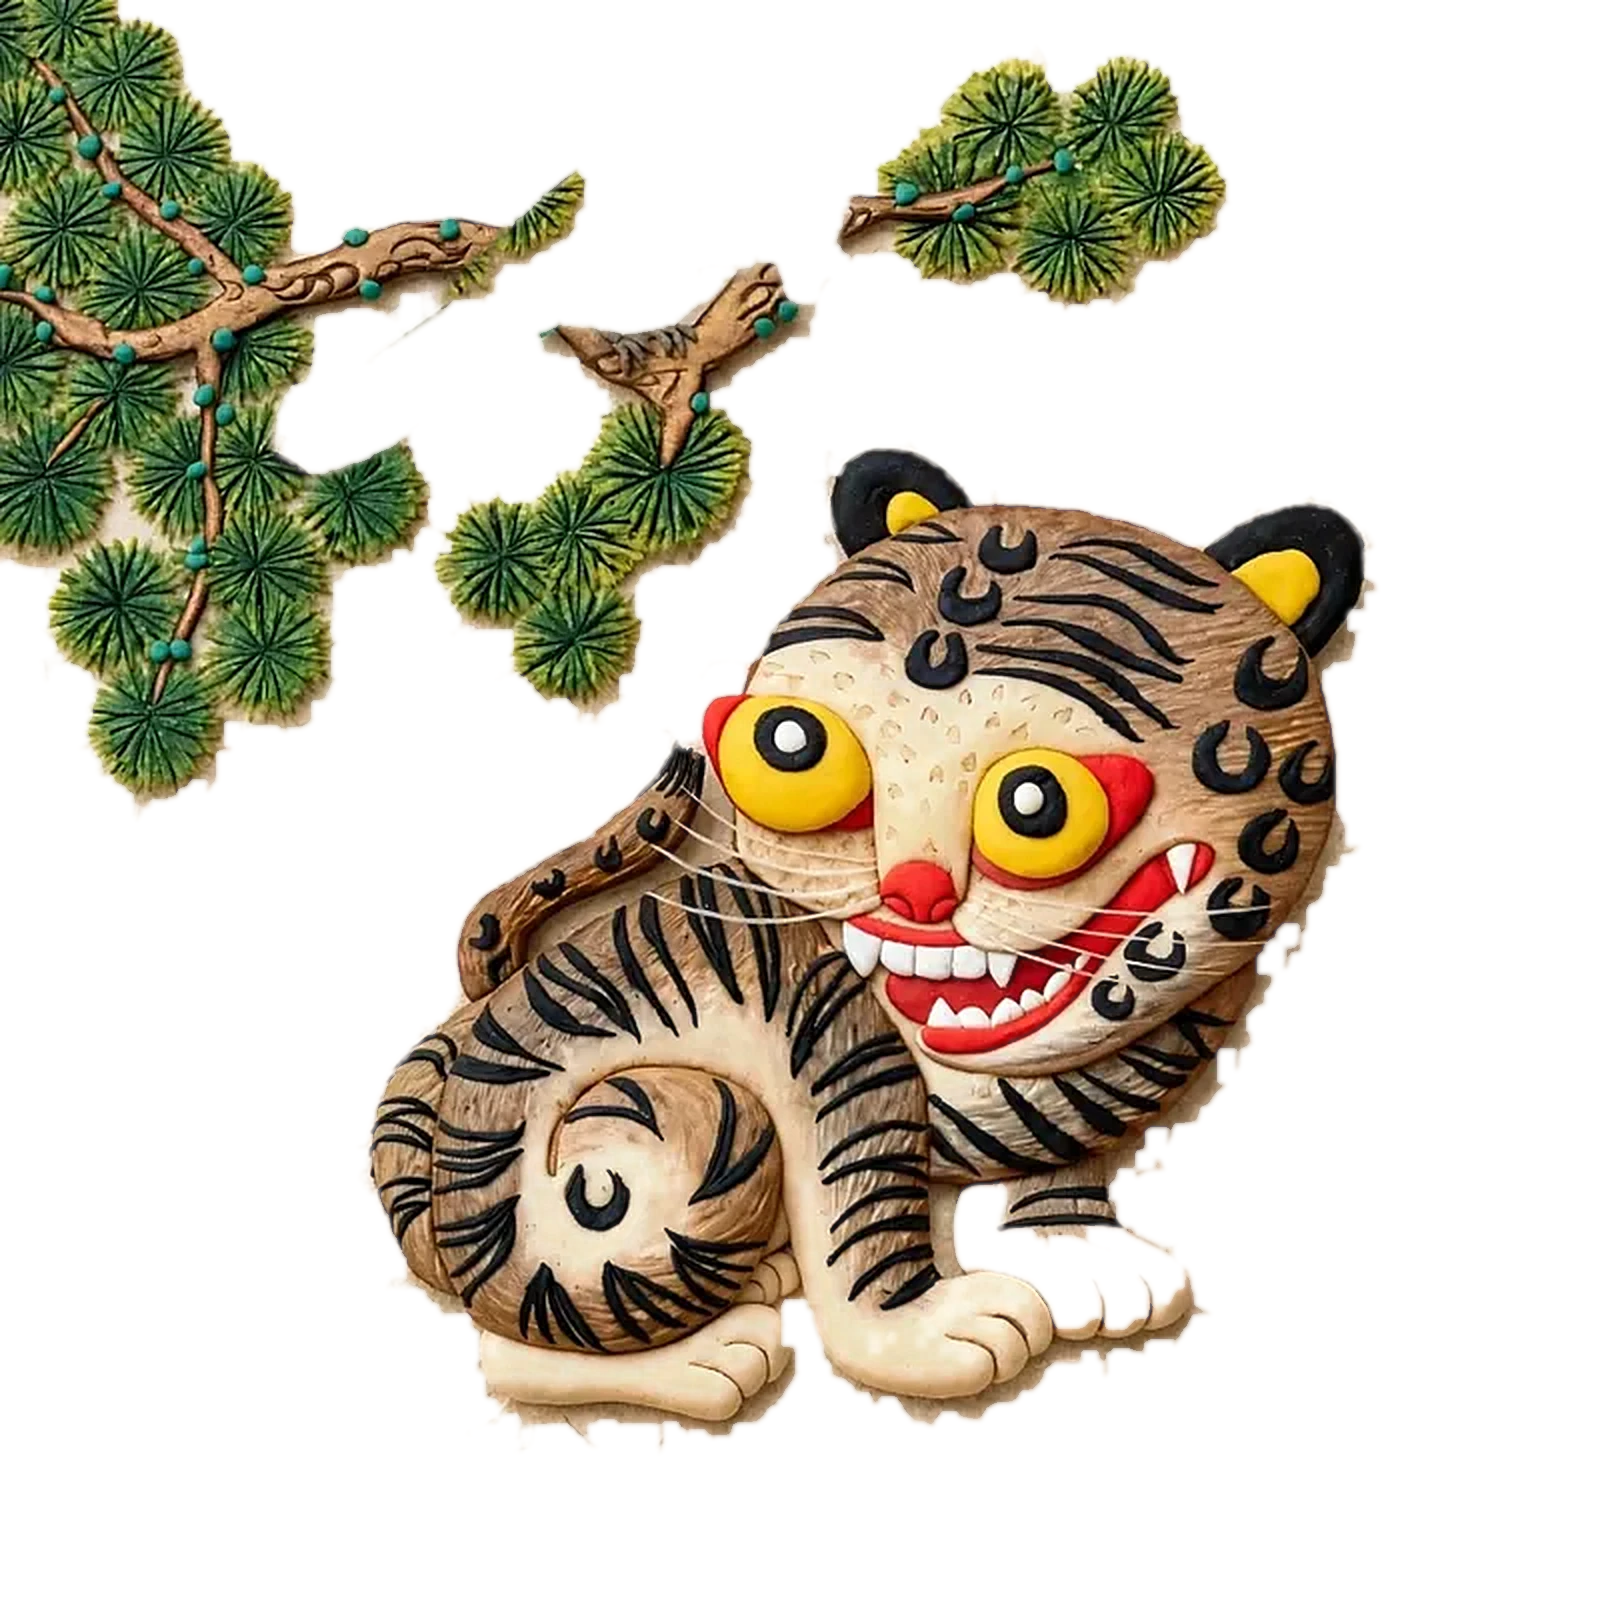
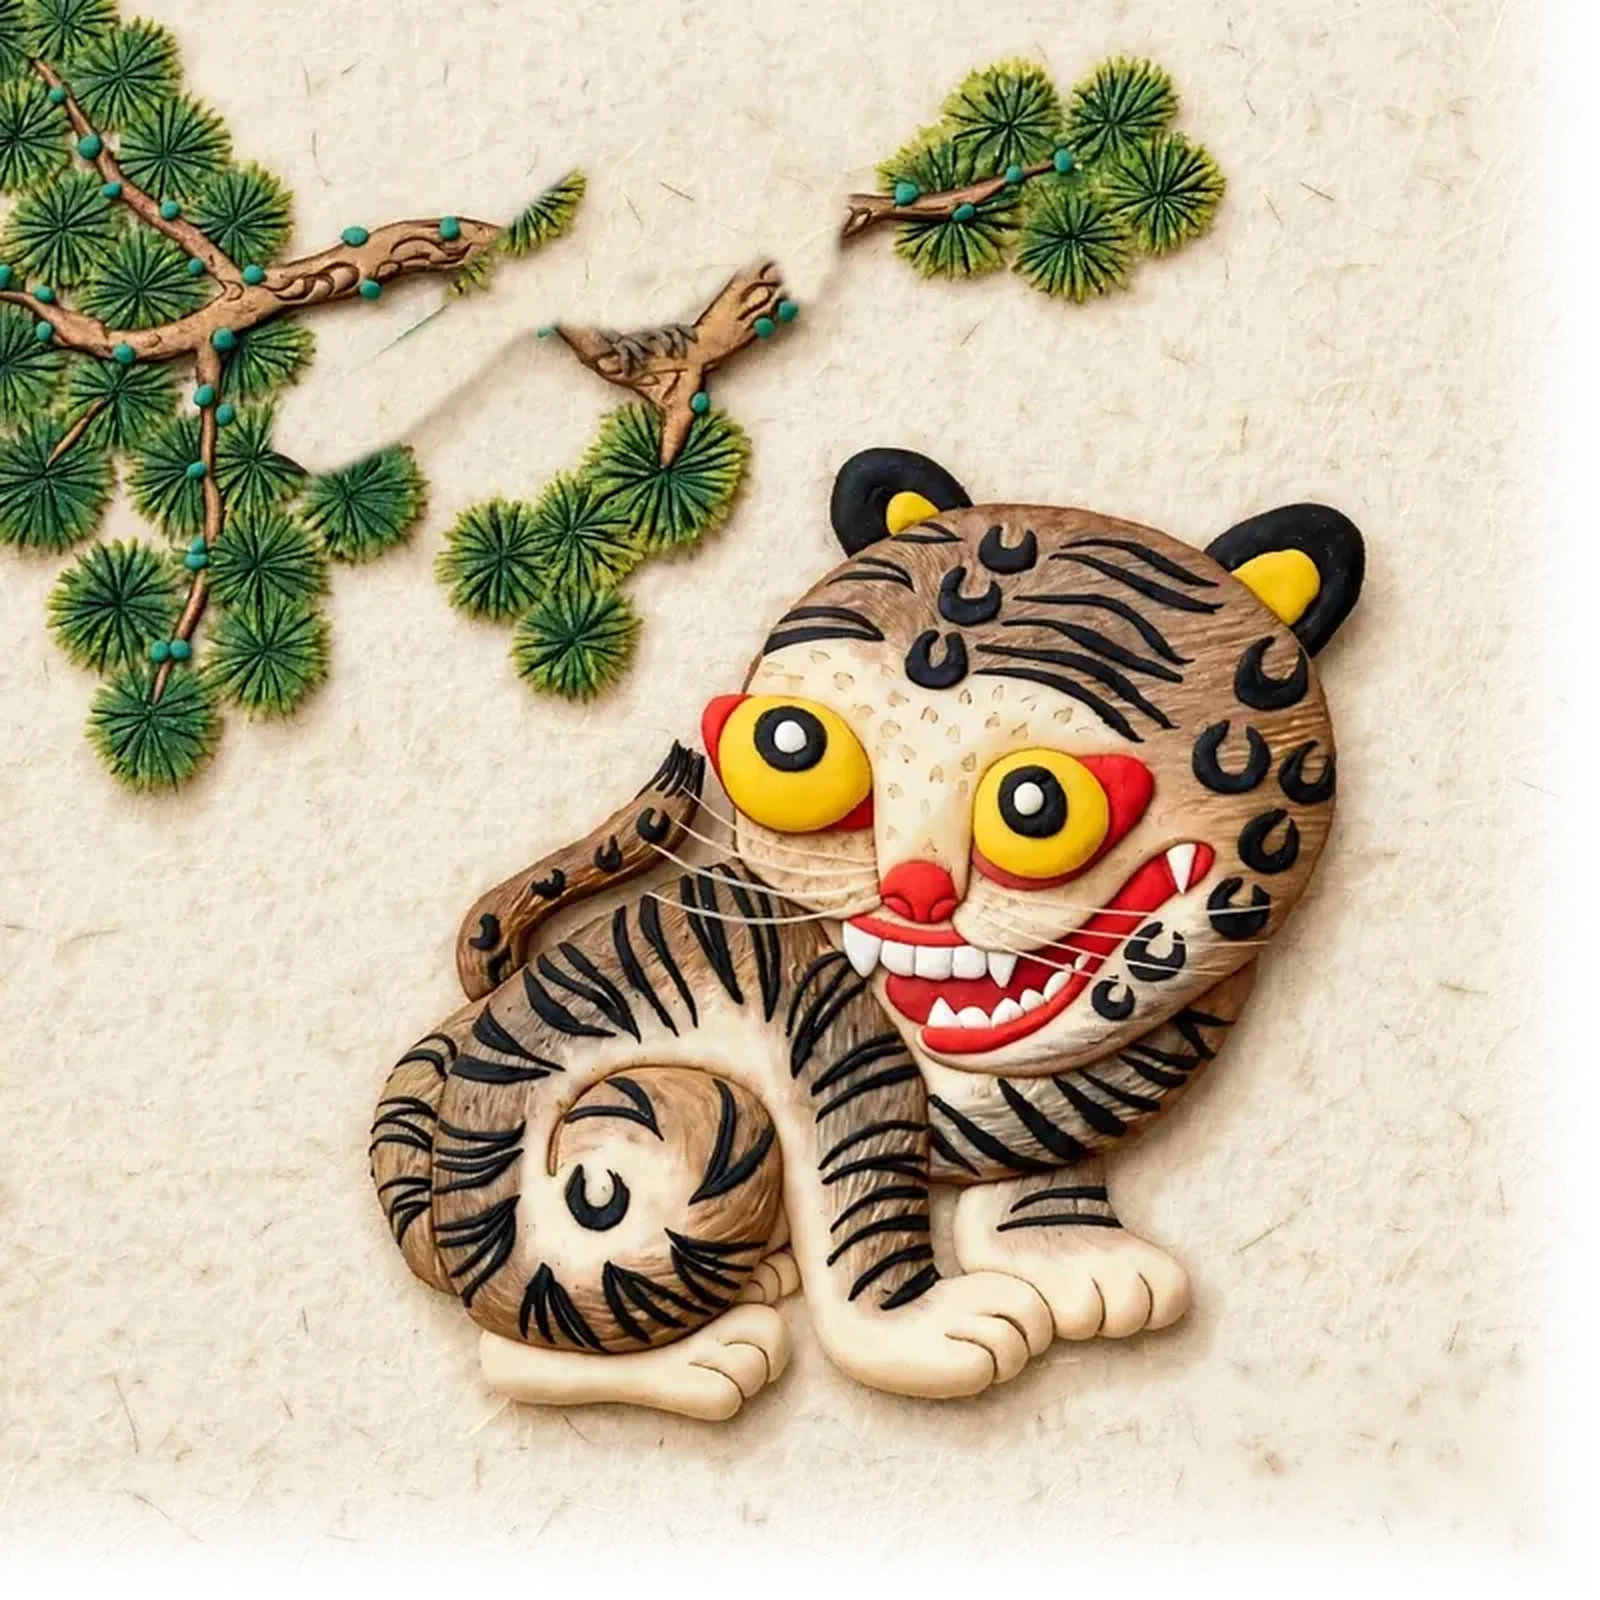
fix(hero): the hojakdo sheet stays whole — no cut-out, no halo
The plate is no longer a matte of the pine and tiger: it is the artwork's own
sheet of hanji, graded to the exact tone the page paints behind it (#f0e7d3) so
the blank edge dissolves instead of showing a rectangle, and only the outer
blank-paper edges carry an alpha feather.

The magpie parts lose the 12px soft matte that made the paper bleed through
their rim (the grey halo), and the head no longer carries the bark wedge the
matte had kept under its beak.

diff --git a/src/components/home/Hero.tsx b/src/components/home/Hero.tsx
@@ -55,10 +55,7 @@ export function Hero({ locale, dict }: { locale: Locale; dict: Dictionary }) {
     <section className="hanji-hero relative isolate overflow-hidden border-b border-line">
       {/* Phone plate — full width, flush under the header --------------------- */}
       <figure className="relative lg:hidden">
-        {/* the empty paper under the paws is lifted off the phone plate */}
-        <div className="overflow-hidden" style={{ aspectRatio: "1 / 0.93" }}>
-          <HojakdoPlate alt={dict.home.plate.alt} />
-        </div>
+        <HojakdoPlate alt={dict.home.plate.alt} />
         <figcaption className="border-t border-line">
           <div className="shell flex items-baseline justify-between gap-4 py-2.5">
             <span className="eyebrow text-graphite">{dict.home.plate.title}</span>
